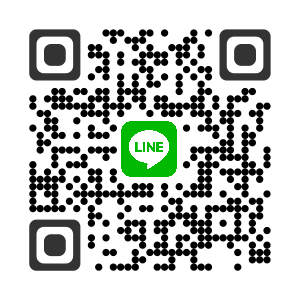
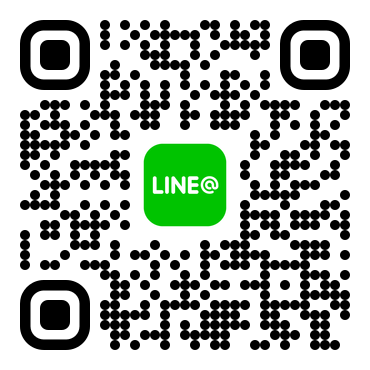
updated

diff --git a/resources/views/home.blade.php b/resources/views/home.blade.php
@@ -66,6 +66,72 @@
 @endif
 
 
+@if(count($sticker_update) != 0)
+<div class="fh5co-narrow-content">
+	<div class="d-flex justify-content-between align-items-baseline animate-box" data-animate-effect="fadeInLeft">
+		<h2 class="fh5co-heading">สติ๊กเกอร์ไลน์ทางการมาใหม่</h2>
+	</div>
+	<div class="animate-box d-flex flex-md-wrap flex-sm-nowrap" data-animate-effect="fadeInLeft">
+		@foreach($sticker_update as $row)
+		<div class="work-item text-center">
+			{!! new_icon($row->created_at) !!}
+			<a href="{{ url('sticker/'.$row->sticker_code) }}">
+				<div class="sticker-image-cover">
+					<img src="https://sdl-stickershop.line.naver.jp/products/0/0/{{ $row->version }}/{{ $row->sticker_code }}/android/main.png" alt="สติ๊กเกอร์ไลน์ {{ $row->title_th }}" class="img-fluid">
+					{!! getStickerResourctTypeIcon($row->stickerresourcetype) !!}
+				</div>
+				<h3 class="fh5co-work-title">{{ $row->title_th }}</h3>
+				<p>{{ ucfirst($row->country) }}, {{ convert_line_coin_2_money($row->price) }} บาท</p>
+			</a>
+		</div>
+		@endforeach
+	</div>
+</div>
+@endif
+
+
+@if(count($emoji_update) != 0)
+<div class="fh5co-narrow-content">
+	<div class="d-flex justify-content-between align-items-baseline animate-box" data-animate-effect="fadeInLeft">
+		<h2 class="fh5co-heading">อิโมจิไลน์ทางการมาใหม่</h2>
+	</div>
+	<div class="animate-box d-flex flex-md-wrap flex-sm-nowrap" data-animate-effect="fadeInLeft">
+		@foreach($emoji_update as $row)
+		<div class="work-item text-center">
+			{!! new_icon($row->created_at) !!}
+			<a href="{{ url('emoji/'.$row->id) }}">
+				<img src="https://stickershop.line-scdn.net/sticonshop/v1/product/{{ $row->emoji_code }}/iphone/main.png" alt="อิโมจิไลน์ {{ $row->title }}" class="img-fluid">
+				<h3 class="fh5co-work-title">{{ $row->title }}</h3>
+				<p>{{ ucfirst($row->country) }}, {{ $row->price }} บาท</p>
+			</a>
+		</div>
+		@endforeach
+	</div>
+</div>
+@endif
+
+
+@if(count($theme_update) != 0)
+<div class="fh5co-narrow-content">
+	<div class="d-flex justify-content-between align-items-baseline animate-box" data-animate-effect="fadeInLeft">
+		<h2 class="fh5co-heading">ธีมไลน์ทางการมาใหม่</h2>
+	</div>
+	<div class="animate-box d-flex flex-md-wrap flex-sm-nowrap" data-animate-effect="fadeInLeft">
+		@foreach($theme_update as $row)
+		<div class="work-item text-center">
+			{!! new_icon($row->created_at) !!}
+			<a href="{{ url('theme/'.$row->id) }}">
+				<img src="https://shop.line-scdn.net/themeshop/v1/products/li/st/kr/{{ $row->theme_code }}/1/WEBSTORE/icon_198x278.png" alt="ธีมไลน์ {{ $row->title_th }}" class="img-fluid">
+				<h3 class="fh5co-work-title">{{ $row->title }}</h3>
+				<p>{{ ucfirst($row->country) }}, {{ $row->price }} บาท</p>
+			</a>
+		</div>
+		@endforeach
+	</div>
+</div>
+@endif
+
+
 <div class="fh5co-narrow-content">
 	<div class="d-flex justify-content-between align-items-baseline animate-box" data-animate-effect="fadeInLeft">
 		<h2 class="fh5co-heading">สติ๊กเกอร์ไลน์ทางการไทย</h2>

diff --git a/app/Http/Controllers/HomeController.php b/app/Http/Controllers/HomeController.php
@@ -72,6 +72,29 @@ class HomeController extends Controller
             ->take(30)
             ->get();
 
+
+        $data['new_arrival'] = NewArrival::orderBy('id', 'desc')->first();
+        // สตื๊กเกอร์ไลน์อัพเดท
+        $data['sticker_update'] = Sticker::where('category','official')
+                            ->where('status','approve')
+                            ->whereBetween('created_at', [$data['new_arrival']
+                            ->start_date, $data['new_arrival']->end_date])
+                            ->get();
+
+        // ธีมไลน์อัพเดท
+        $data['theme_update'] = Theme::where('category','official')
+                            ->where('status','approve')
+                            ->whereBetween('created_at', [$data['new_arrival']
+                            ->start_date, $data['new_arrival']->end_date])
+                            ->get();
+
+        // อิโมจิอัพเดท
+        $data['emoji_update'] = Emoji::where('category','official')
+                            ->where('status','approve')
+                            ->whereBetween('created_at', [$data['new_arrival']
+                            ->start_date, $data['new_arrival']->end_date])
+                            ->get();
+
         // สติ๊กเกอร์ไลน์ทางการ (ไทย)
         $data['sticker_official_thai'] = new Sticker;
         $data['sticker_official_thai'] = $data['sticker_official_thai']

diff --git a/resources/views/include/front/header.blade.php b/resources/views/include/front/header.blade.php
@@ -1,6 +1,6 @@
 <aside id="fh5co-aside" role="complementary" class="border js-fullheight">
 
-    <h1 id="fh5co-logo"><a href="http://line.me/ti/p/~ratasak1234" target="_blank"><img class="img-fluid" width="115" height="115" src="https://linesticker.in.th/image/qr_ratasak1234.png" alt="ขายสติ๊กเกอร์ไลน์ ธีมไลน์ อิโมจิไลน์ ของแท้ ไม่มีหาย"></a></h1>
+    <h1 id="fh5co-logo"><a href="https://line.me/R/ti/p/HuNn5V9sfP" target="_blank"><img class="img-fluid" width="115" height="115" src="https://line2me.in.th/image/qr_line2me.png" alt="ขายสติ๊กเกอร์ไลน์ ธีมไลน์ อิโมจิไลน์ ของแท้ ไม่มีหาย"></a></h1>
     <nav id="fh5co-main-menu" role="navigation">
         <ul>
             <li class="fh5co-active"><a href="home">หน้าแรก</a></li>

diff --git a/resources/views/emoji/product.blade.php b/resources/views/emoji/product.blade.php
@@ -24,7 +24,7 @@
 	<!-- ปุ่มสั่งซื้อ -->
 	<div class="text-center animate-box" data-animate-effect="fadeInLeft">
 		<hr>
-			<a href="https://line.me/ti/p/~ratasak1234" target="_blank"><button type="button" class="btn btn-success btn-block">สั่งซื้อคลิก</button></a>
+			<a href="https://line.me/ti/p/@line2me.in.th" target="_blank"><button type="button" class="btn btn-success btn-block">สั่งซื้อคลิก</button></a>
 		<hr>
 	</div>
 	<!-- ปุ่มสั่งซื้อ -->

diff --git a/resources/views/sticker/product.blade.php b/resources/views/sticker/product.blade.php
@@ -28,7 +28,7 @@
 	<!-- ปุ่มสั่งซื้อ -->
 	<div class="text-center animate-box" data-animate-effect="fadeInLeft">
 		<hr>
-			<a href="https://line.me/ti/p/~ratasak1234" target="_blank"><button type="button" class="btn btn-success btn-block">สั่งซื้อคลิก</button></a>
+			<a href="https://line.me/ti/p/@line2me.in.th" target="_blank"><button type="button" class="btn btn-success btn-block">สั่งซื้อคลิก</button></a>
 		<hr>
 	</div>
 	<!-- ปุ่มสั่งซื้อ -->

diff --git a/resources/views/theme/product.blade.php b/resources/views/theme/product.blade.php
@@ -24,7 +24,7 @@
 	<!-- ปุ่มสั่งซื้อ -->
 	<div class="text-center animate-box" data-animate-effect="fadeInLeft">
 		<hr>
-			<a href="https://line.me/ti/p/~ratasak1234" target="_blank"><button type="button" class="btn btn-success btn-block">สั่งซื้อคลิก</button></a>
+			<a href="https://line.me/ti/p/@line2me.in.th" target="_blank"><button type="button" class="btn btn-success btn-block">สั่งซื้อคลิก</button></a>
 		<hr>
 	</div>
 	<!-- ปุ่มสั่งซื้อ -->

diff --git a/resources/views/aboutus.blade.php b/resources/views/aboutus.blade.php
@@ -163,8 +163,8 @@
 					</p>
 				</div>
 				<div class="col-md-6 animate-box" data-animate-effect="fadeInLeft">
-					<p>แสกน QR Code</p>
-					<a href="http://line.me/ti/p/~ratasak1234" target="_blank"><img class="img-fluid" src="image/qr_ratasak1234.png" width="135" height="135"></a>
+					<!-- <p>แสกน QR Code</p> -->
+					<a href="https://line.me/R/ti/p/HuNn5V9sfP" target="_blank"><img class="img-fluid" src="image/qr_frame_line2me.jpg" width="135" height="135"></a>
 				</div>
 			</div>
 		</div>
